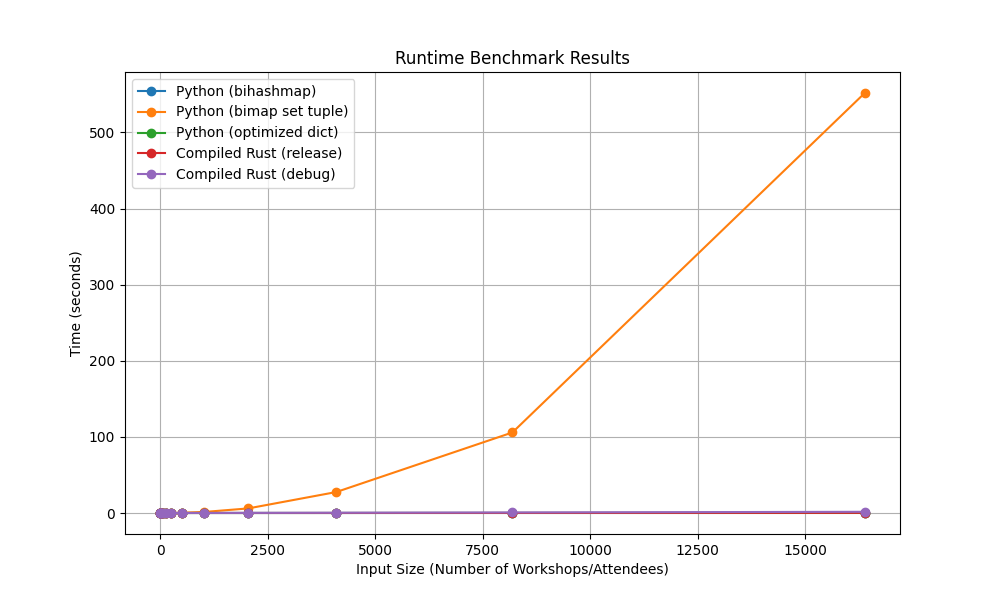
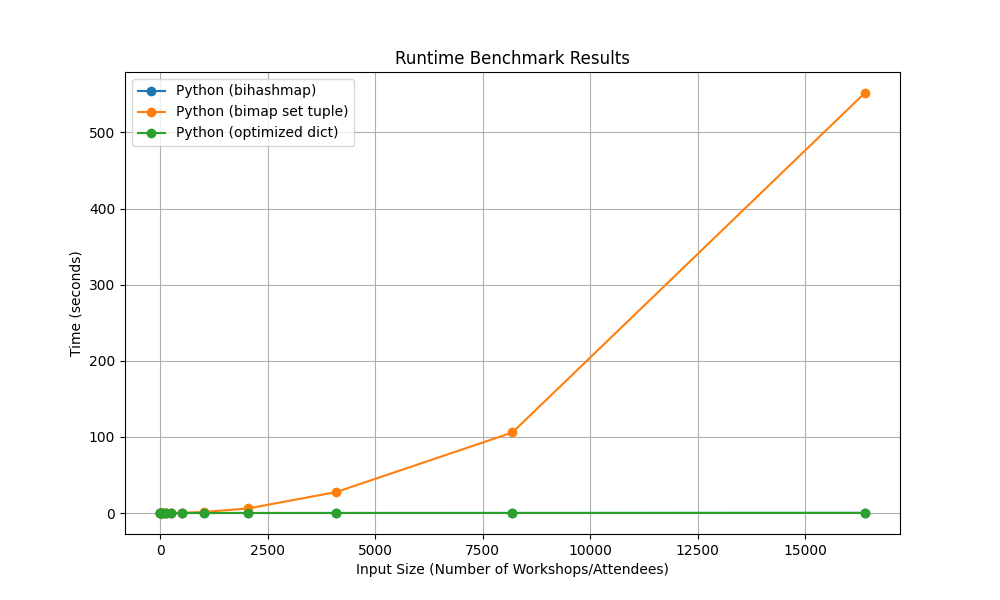
remove rust from perf graphs

diff --git a/cdp-2025/results/graph_results.py b/cdp-2025/results/graph_results.py
@@ -5,8 +5,8 @@ RUNTIME_BENCHMARKS = {
     "benchmark_runtime_python_bihashmap.csv": "Python (bihashmap)",
     "benchmark_runtime_python_bimap_tuple.csv": "Python (bimap set tuple)",
     "benchmark_runtime_python_optimized_dict.csv": "Python (optimized dict)",
-    "benchmark_runtime_rust_release.csv": "Compiled Rust (release)",
-    "benchmark_runtime_rust_debug.csv": "Compiled Rust (debug)",
+    # "benchmark_runtime_rust_release.csv": "Compiled Rust (release)",
+    # "benchmark_runtime_rust_debug.csv": "Compiled Rust (debug)",
 }
 
 MEMORY_BENCHMARKS = {
